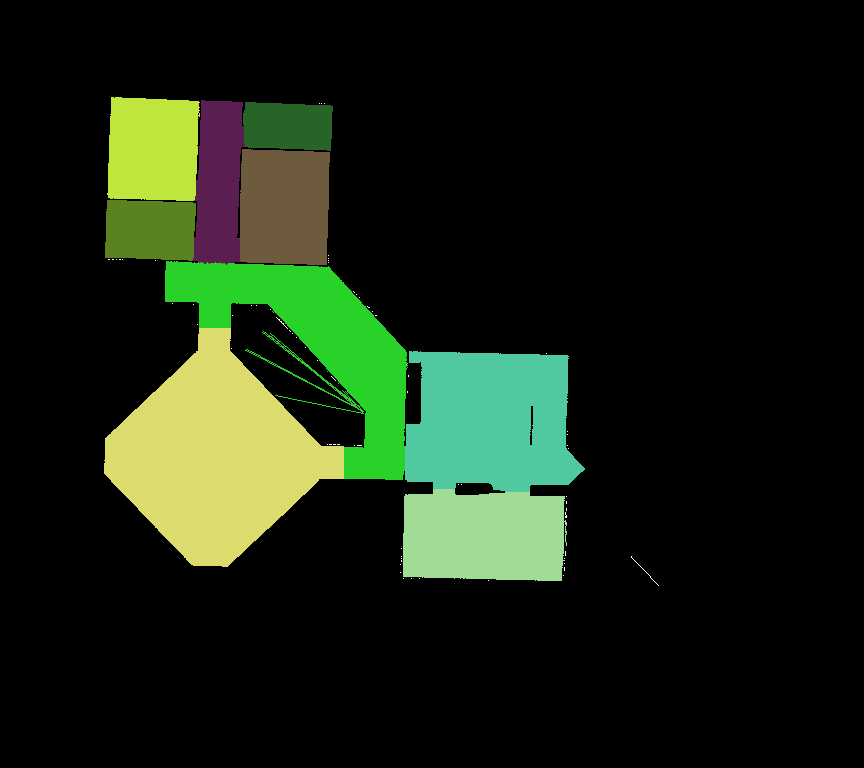
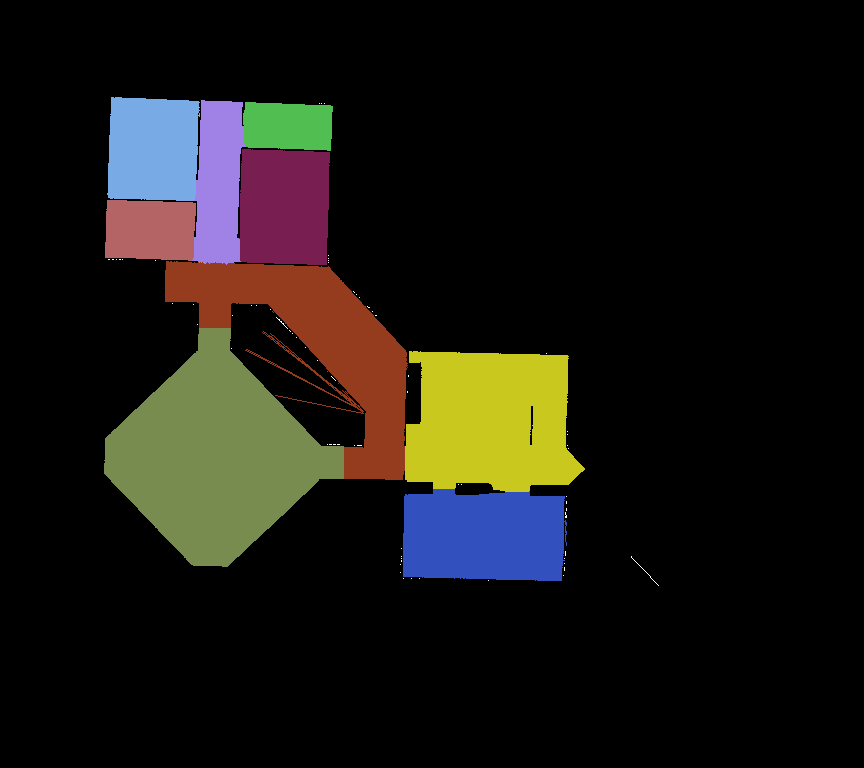
update bus online

Changed region(s): [[0.0938, 0.125, 0.6875, 0.7812]]

diff --git a/map_analyzer/src/map_tesselation.py b/map_analyzer/src/map_tesselation.py
@@ -73,6 +73,8 @@ import actionlib
 
 from map_analyzer.srv import MapAnalyzer
 from map_analyzer.srv._MapAnalyzer import MapAnalyzerResponse, MapAnalyzerRequest
+import sensor_msgs
+from gi.overrides.Gdk import Color
 
 
 class MapTesselation(object):
@@ -87,6 +89,11 @@ class MapTesselation(object):
             self.serviceMapPublisherClient = rospy.ServiceProxy('map_publisher_server', MapAnalyzer)
         except rospy.ServiceException, e:
             print "Service call failed: %s"%e
+            
+        self.bridge = CvBridge()
+        self.numbpix = 0
+        # change alogrithm to one that fits best to the rooms?
+        self.squaresize = 20
         rospy.loginfo("... finished")
         
     def handle_map_cb(self, input_map):
@@ -94,18 +101,274 @@ class MapTesselation(object):
         print input_map.map.header
         print "encoding"
         print input_map.map.encoding
-
-        output_map = input_map.map
-        answer = self.serviceMapPublisherClient(output_map)
+        cv_img = self.bridge.imgmsg_to_cv2(input_map.map, desired_encoding="passthrough").copy()
+        cv_img = self.tesselateMap(cv_img)
+        # create new sensor_msgs/Image:
+        output = Image()
+        output.header = input_map.map.header
+        output.encoding = input_map.map.encoding
+        output.height = input_map.map.height
+        output.width = input_map.map.width
+        cv_enc_img_msg = self.bridge.cv2_to_imgmsg(cv_img)
+        
+        answer = self.serviceMapPublisherClient(cv_enc_img_msg)
         print answer
         
         response = MapAnalyzerResponse()
         response.answer.data = "MapPublisher received a new map!"
         return response
 
-    def tesselateMap(self, map):
-        newMap = map.data
+    def tesselateMap(self, map_img):
+        newMap = map_img
+        #newMap = self.correctSmallAreas(map_img)
+        #for list_of_mapcolors do -->
+        newMap = self.tesselateRooms(newMap, 9) # 14
+        newMap = self.createSquares(newMap)
+        newMap = self.fillSquares(newMap)
+        newMap = self.deleteSquaresVertical(newMap)
+        newMap = self.deleteSquaresHorizontal(newMap)
+        listOfSmallAreas = self.findSmallAreas(newMap)
+        newMap = self.mergeSmallAreas(newMap, listOfSmallAreas)
+        print listOfSmallAreas
+        
+                 
         return newMap
+    
+    def mergeSmallAreas(self, map_img, listOfAreas):
+        newMap = map_img
+        while not (len(listOfAreas) == 0): # list empty
+            (color, pixelcount) = listOfAreas.pop()
+            print "color"
+            print color
+            print "pixelcount"
+            print pixelcount
+            if pixelcount < 450:
+                for w in range (0, newMap.shape[1], 1):
+                    for h in range (0, newMap.shape[0], 1):
+                        if newMap[h][w] == color:
+                            stackOfNeighbours = self.floodfindNeighbours(h, w, color, 1, newMap)
+                            listOfOccasions = []
+                            for item in stackOfNeighbours:
+                                listOfOccasions.append(stackOfNeighbours.count(item))
+                            newColor = stackOfNeighbours[listOfOccasions.index(max(listOfOccasions))]
+                            newMap = self.floodfill4(h, w, color, newColor, newMap)
+                
+        return newMap
+        
+    def deleteSquaresVertical(self, map_img):
+        newMap = map_img
+        for w in range (0, newMap.shape[1], 1):
+            for h in range (0, newMap.shape[0], 1):
+                if newMap[h][w] == 65220:
+#                     if not newMap[h-1][w] == 0 or newMap[h-1][w] == 65220:
+#                         newMap[h][w] = newMap[h-1][w]
+#                     elif not newMap[h+1][w] == 0 or newMap[h+1][w] == 65220:
+#                         newMap[h][w] = newMap[h+1][w]
+                    if not newMap[h][w+1] == 0 or newMap[h][w+1] == 65220:
+                        newMap[h][w] = newMap[h][w+1]
+                    elif not newMap[h][w-1] == 0 or newMap[h][w-1] == 65220:
+                        newMap[h][w] = newMap[h][w-1]
+        return newMap
+    
+    def deleteSquaresHorizontal(self, map_img):
+        newMap = map_img
+        for w in range (0, newMap.shape[1], 1):
+            for h in range (0, newMap.shape[0], 1):
+                if newMap[h][w] == 65221:
+                    if not newMap[h-1][w] == 0 or newMap[h-1][w] == 65221:
+                        newMap[h][w] = newMap[h-1][w]
+                    elif not newMap[h+1][w] == 0 or newMap[h+1][w] == 65221:
+                        newMap[h][w] = newMap[h+1][w]
+#                     elif not newMap[h][w+1] == 0 or newMap[h][w+1] == 65221:
+#                         newMap[h][w] = newMap[h][w+1]
+#                     elif not newMap[h][w-1] == 0 or newMap[h][w-1] == 65221:
+#                         newMap[h][w] = newMap[h][w-1]
+        return newMap
+
+    
+    def fillSquares(self, map_img):
+        newMap = map_img
+        color = 0
+        counter = 1
+        workedOnColors = []
+        for w in range (0, newMap.shape[1], 1):
+            for h in range (0, newMap.shape[0], 1):
+                if not newMap[h][w] == 0:
+                    if not newMap[h][w] == 65220 and not newMap[h][w] == 65221:
+                        if color == 0:
+                            color = newMap[h][w] * 1000
+                        if not newMap[h][w] in workedOnColors:
+                            newValue = color + counter
+                            counter += 1
+                            oldValue = newMap[h][w]
+                            workedOnColors.append(newValue)
+                            newMap = self.floodfill4(h, w, oldValue, newValue, newMap)
+        return newMap
+    
+    def createSquares(self, room_img):
+        for w in range (0, room_img.shape[1], 1):
+            for h in range (0, room_img.shape[0], self.squaresize):
+                if not room_img[h][w] == 0:
+                    room_img[h][w] = 65221
+        
+        for w in range (0, room_img.shape[1],  self.squaresize):
+            for h in range (0, room_img.shape[0], 1):
+                if not room_img[h][w] == 0:
+                    room_img[h][w] = 65220
+        
+        return room_img
+    
+    def findSmallAreas(self, map_img):
+        newMap = map_img
+        listOfCol = []
+        listOfArea = []
+        workedOnColors = []
+        listOfColAndArea = []
+        for w in range (0, newMap.shape[1], 1):
+            for h in range (0, newMap.shape[0], 1):
+                if not newMap[h][w] == 0:
+                    if not newMap[h][w] in listOfCol:
+                        if not newMap[h][w] in workedOnColors:
+                            listOfCol.append(newMap[h][w])
+                            oldValue = newMap[h][w]
+                            newValue = oldValue + 1000
+                            workedOnColors.append(newValue)
+                            self.numbpix = 0
+                            self.floodfill4(h, w, oldValue, newValue, newMap)
+                            listOfArea.append(self.numbpix)
+                            stack = []
+                            stack.append(oldValue)
+                            stack.append(self.numbpix)
+                            listOfColAndArea.append(stack)
+        return listOfColAndArea
+    
+    def correctSmallAreas(self, map_img):
+        newMap = map_img
+        for w in range (0, newMap.shape[1], 1):
+            for h in range (0, newMap.shape[0], 1):
+                if not newMap[h][w] == 0:
+                    if newMap[h][w] == 65280:
+                        newMap[h][w] = 0
+                    elif (newMap[h+1][w] == 0) and (newMap[h-1][w] == 0) and (newMap[h][w+1] == 0) and (newMap[h][w-1] == 0):
+                        newMap[h][w] = 0
+        listOfColorValues = self.makeListOfColorValues(newMap)
+        colorcounter = max(listOfColorValues)
+        print "colorcounter"
+        print colorcounter
+        max_perc = newMap.shape[1] * newMap.shape[0]
+        workedOnColors = []
+        percentagecounter = 0
+        highestcolor = colorcounter
+        for w in range (0, newMap.shape[1], 1):
+            for h in range (0, newMap.shape[0], 1):
+                percentagecounter +=1
+                print percentagecounter
+                if not percentagecounter == 0:
+                    print str(100 / (max_perc / (percentagecounter)))+"%"
+                if not newMap[h][w] == 0:
+                    if not newMap[h][w] in workedOnColors:
+                        workedOnColors.append(newMap[h][w])
+                        print workedOnColors
+                        oldColor = newMap[h][w]
+                        self.numbpix = 0
+                        colorcounter += 1
+                        workedOnColors.append(colorcounter)
+                        print "start floodfill"
+                        print "on pixel"
+                        print h
+                        print w
+                        print "oldcolor"
+                        print oldColor
+                        print colorcounter
+                        newMap = self.floodfill4(h, w, oldColor, colorcounter, newMap)
+                        if self.numbpix < 50:
+                            print "pix is to low refill black"
+                            newMap = self.floodfill4(h, w, colorcounter, 0, newMap)
+        # this is possibly a bad idea. What if two regions with the same color exist?
+        # here the second one will be deleted. However it could be the bigger one!
+        newMap[newMap<highestcolor+1]=0
+        return newMap
+
+    def tesselateRooms(self, map_img, room_color):
+        cv_img = map_img
+        for w in range (0, map_img.shape[1], 1):
+            for h in range(0, map_img.shape[0], 1):
+                if map_img[h][w] == room_color:
+                    cv_img[h][w] = room_color
+                else:
+                    cv_img[h][w] = 0
+        return cv_img
+        
+    def makeListOfColorValues(self, map_img):
+        listOfDifColors = []
+        for w in range (0, map_img.shape[1], 1):
+            for h in range(0, map_img.shape[0], 1):
+                colorvalue = map_img[h][w]
+                if colorvalue not in listOfDifColors:
+                    listOfDifColors.append(colorvalue)
+        print listOfDifColors
+        return listOfDifColors
+    
+    def floodfill4(self, x, y, oldValue, newValue, img):
+        stack = []
+        innerstack = []
+        innerstack.append(x)
+        innerstack.append(y)
+        stack.append(innerstack)
+        while not (len(stack) == 0): # list empty
+            (x, y) = stack.pop()
+            if img[x][y] == oldValue:
+                img[x][y] = newValue
+                self.numbpix += 1
+                innerstack = []
+                innerstack.append(x)
+                innerstack.append(y+1)
+                stack.append(innerstack)
+                innerstack = []
+                innerstack.append(x)
+                innerstack.append(y-1)
+                stack.append(innerstack)
+                innerstack = []
+                innerstack.append(x+1)
+                innerstack.append(y)
+                stack.append(innerstack)
+                innerstack = []
+                innerstack.append(x-1)
+                innerstack.append(y)
+                stack.append(innerstack)
+        return img
+    
+    def floodfindNeighbours(self, x, y, oldValue, newValue, img):
+        stackOfNeighbours = []
+        stack = []
+        innerstack = []
+        innerstack.append(x)
+        innerstack.append(y)
+        stack.append(innerstack)
+        while not (len(stack) == 0): # list empty
+            (x, y) = stack.pop()
+            if img[x][y] == oldValue:
+                img[x][y] = newValue
+                self.numbpix += 1
+                innerstack = []
+                innerstack.append(x)
+                innerstack.append(y+1)
+                stack.append(innerstack)
+                innerstack = []
+                innerstack.append(x)
+                innerstack.append(y-1)
+                stack.append(innerstack)
+                innerstack = []
+                innerstack.append(x+1)
+                innerstack.append(y)
+                stack.append(innerstack)
+                innerstack = []
+                innerstack.append(x-1)
+                innerstack.append(y)
+                stack.append(innerstack)
+            else:
+                stackOfNeighbours.append(img[x][y])
+        return stackOfNeighbours
 
 if __name__ == '__main__':
     rospy.init_node('map_tesselation_node', anonymous=False)

diff --git a/ipa_pars_main/src/planning_server.py b/ipa_pars_main/src/planning_server.py
@@ -158,7 +158,6 @@ class ParsServer(object):
     def sendImageToMapAnalyzerServer(self):
         # TODO: add header and other meta data to message!
         img_msg_typ = Image()
-        img_msg_typ.header.seq = 1
         img_msg_typ.header.stamp = rospy.Time.now()
         img_msg_typ.header.frame_id = "planning_server_frame"
         #img_msg_typ.height = self.input_map.shape[1]
